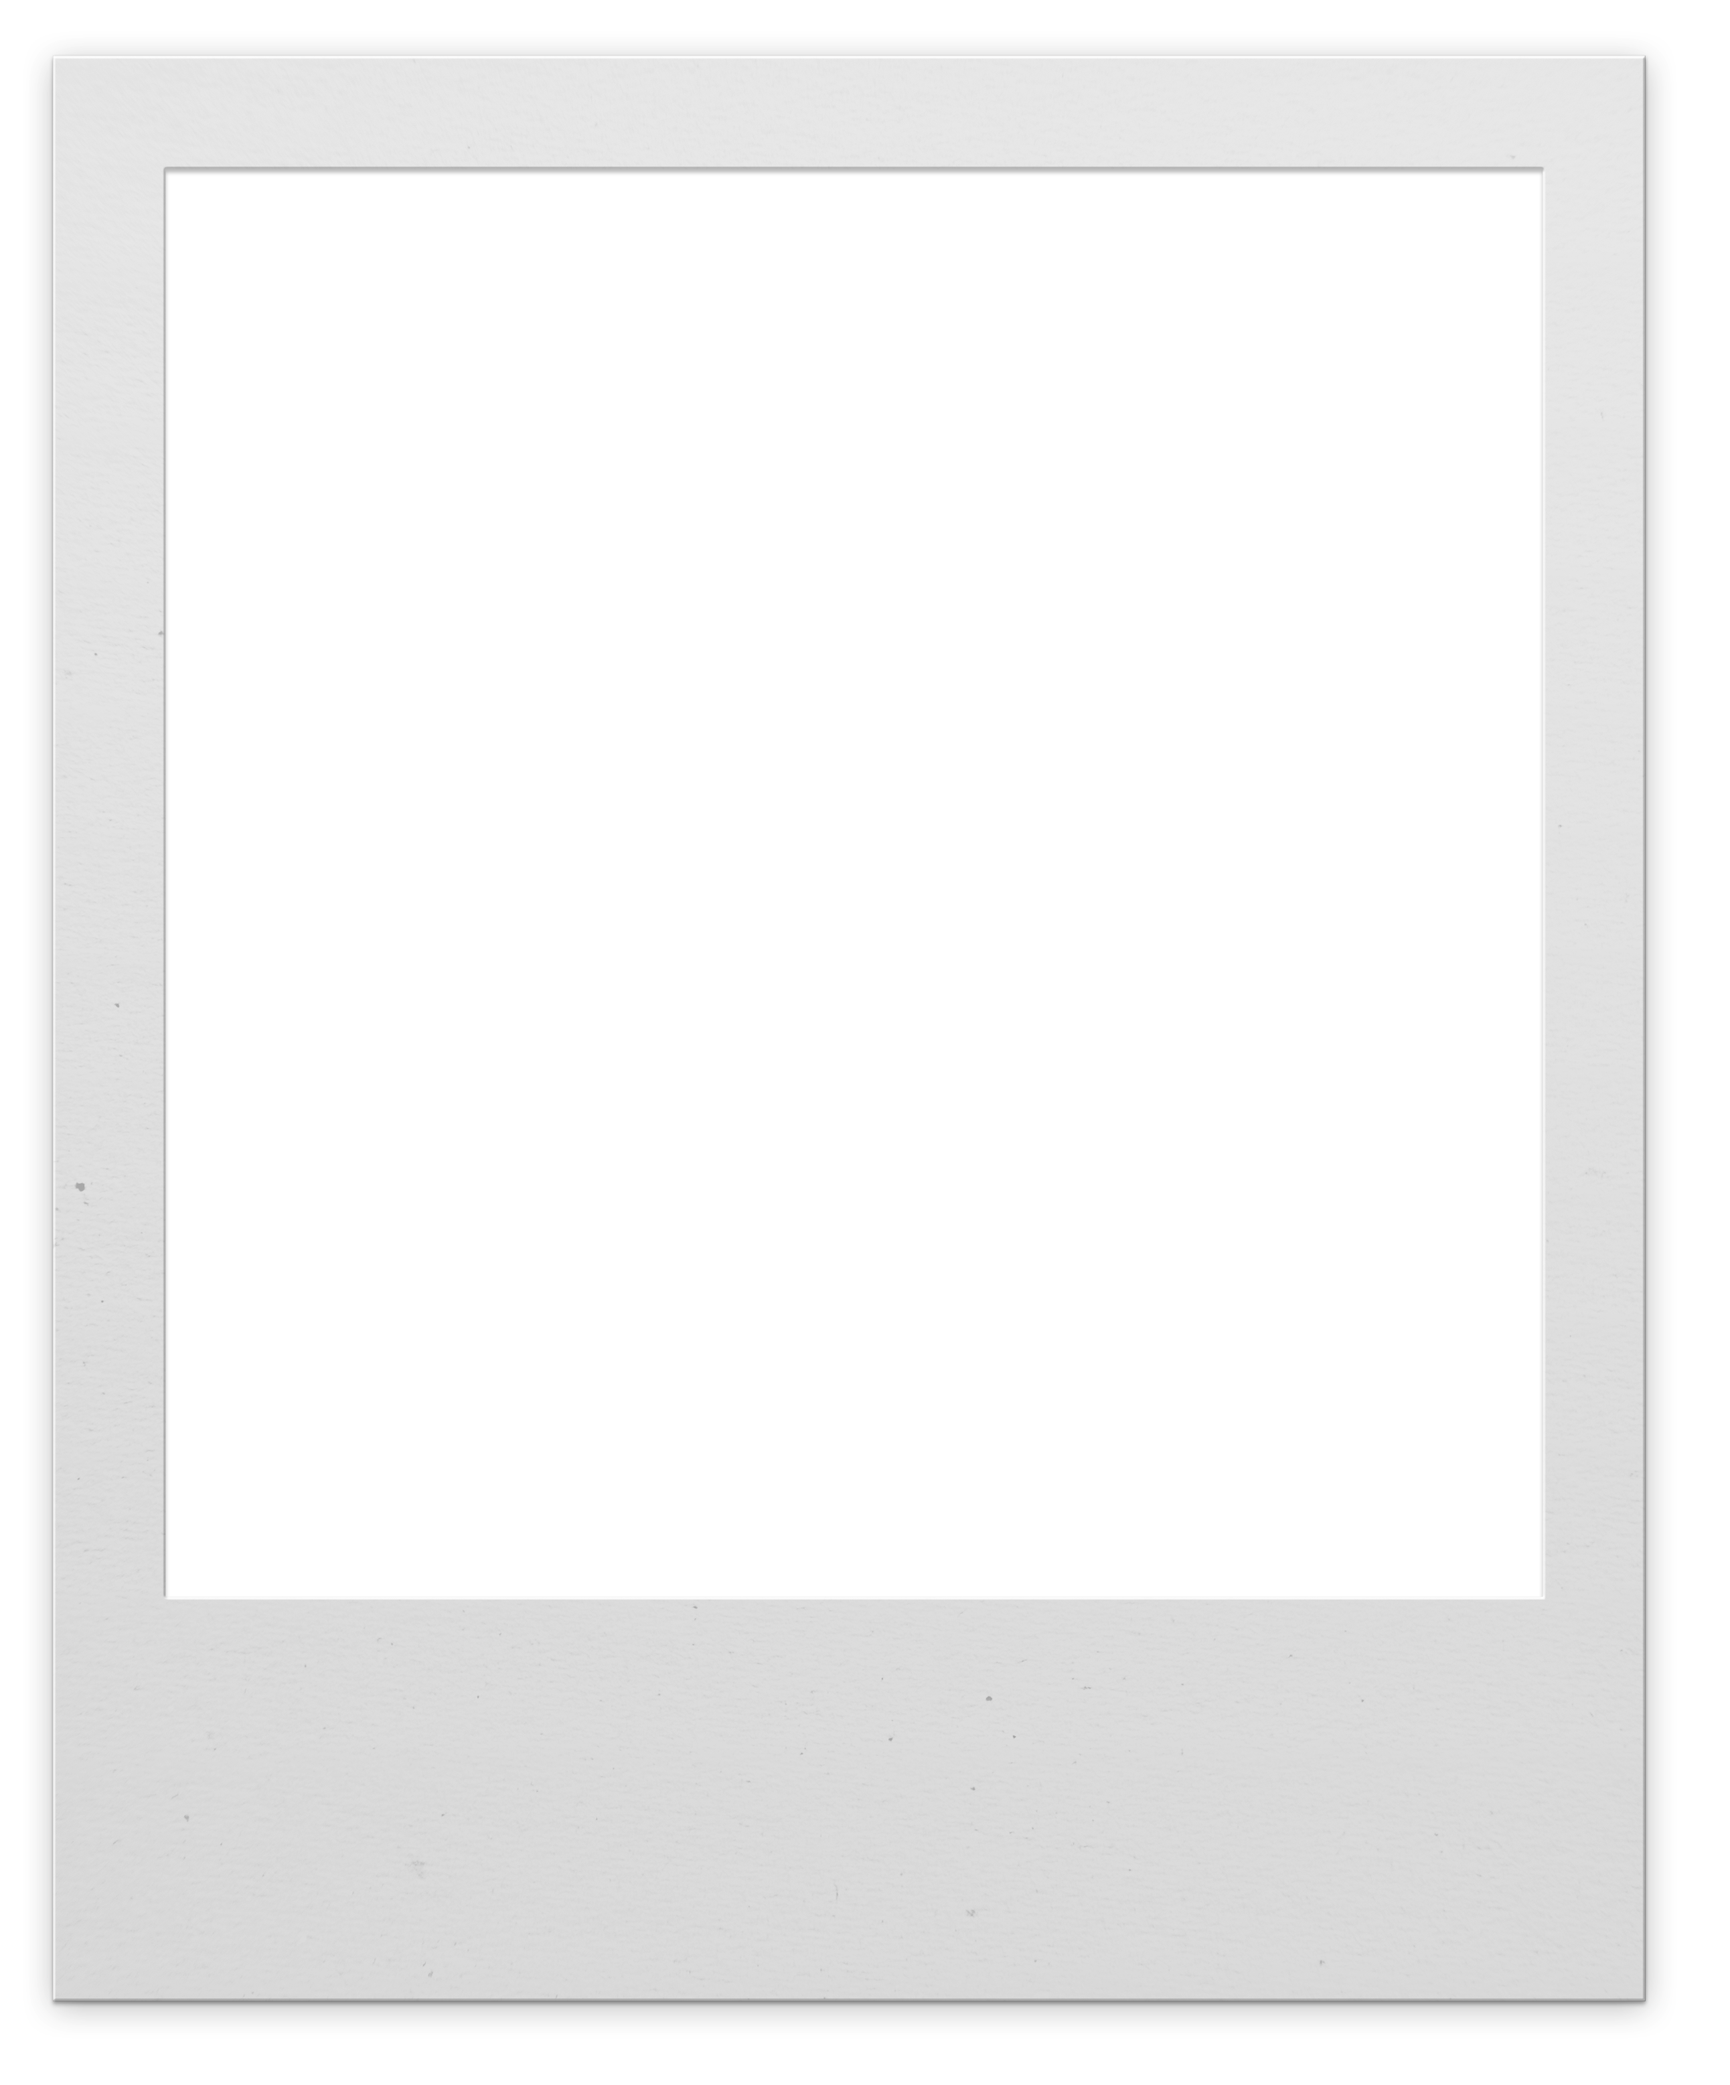
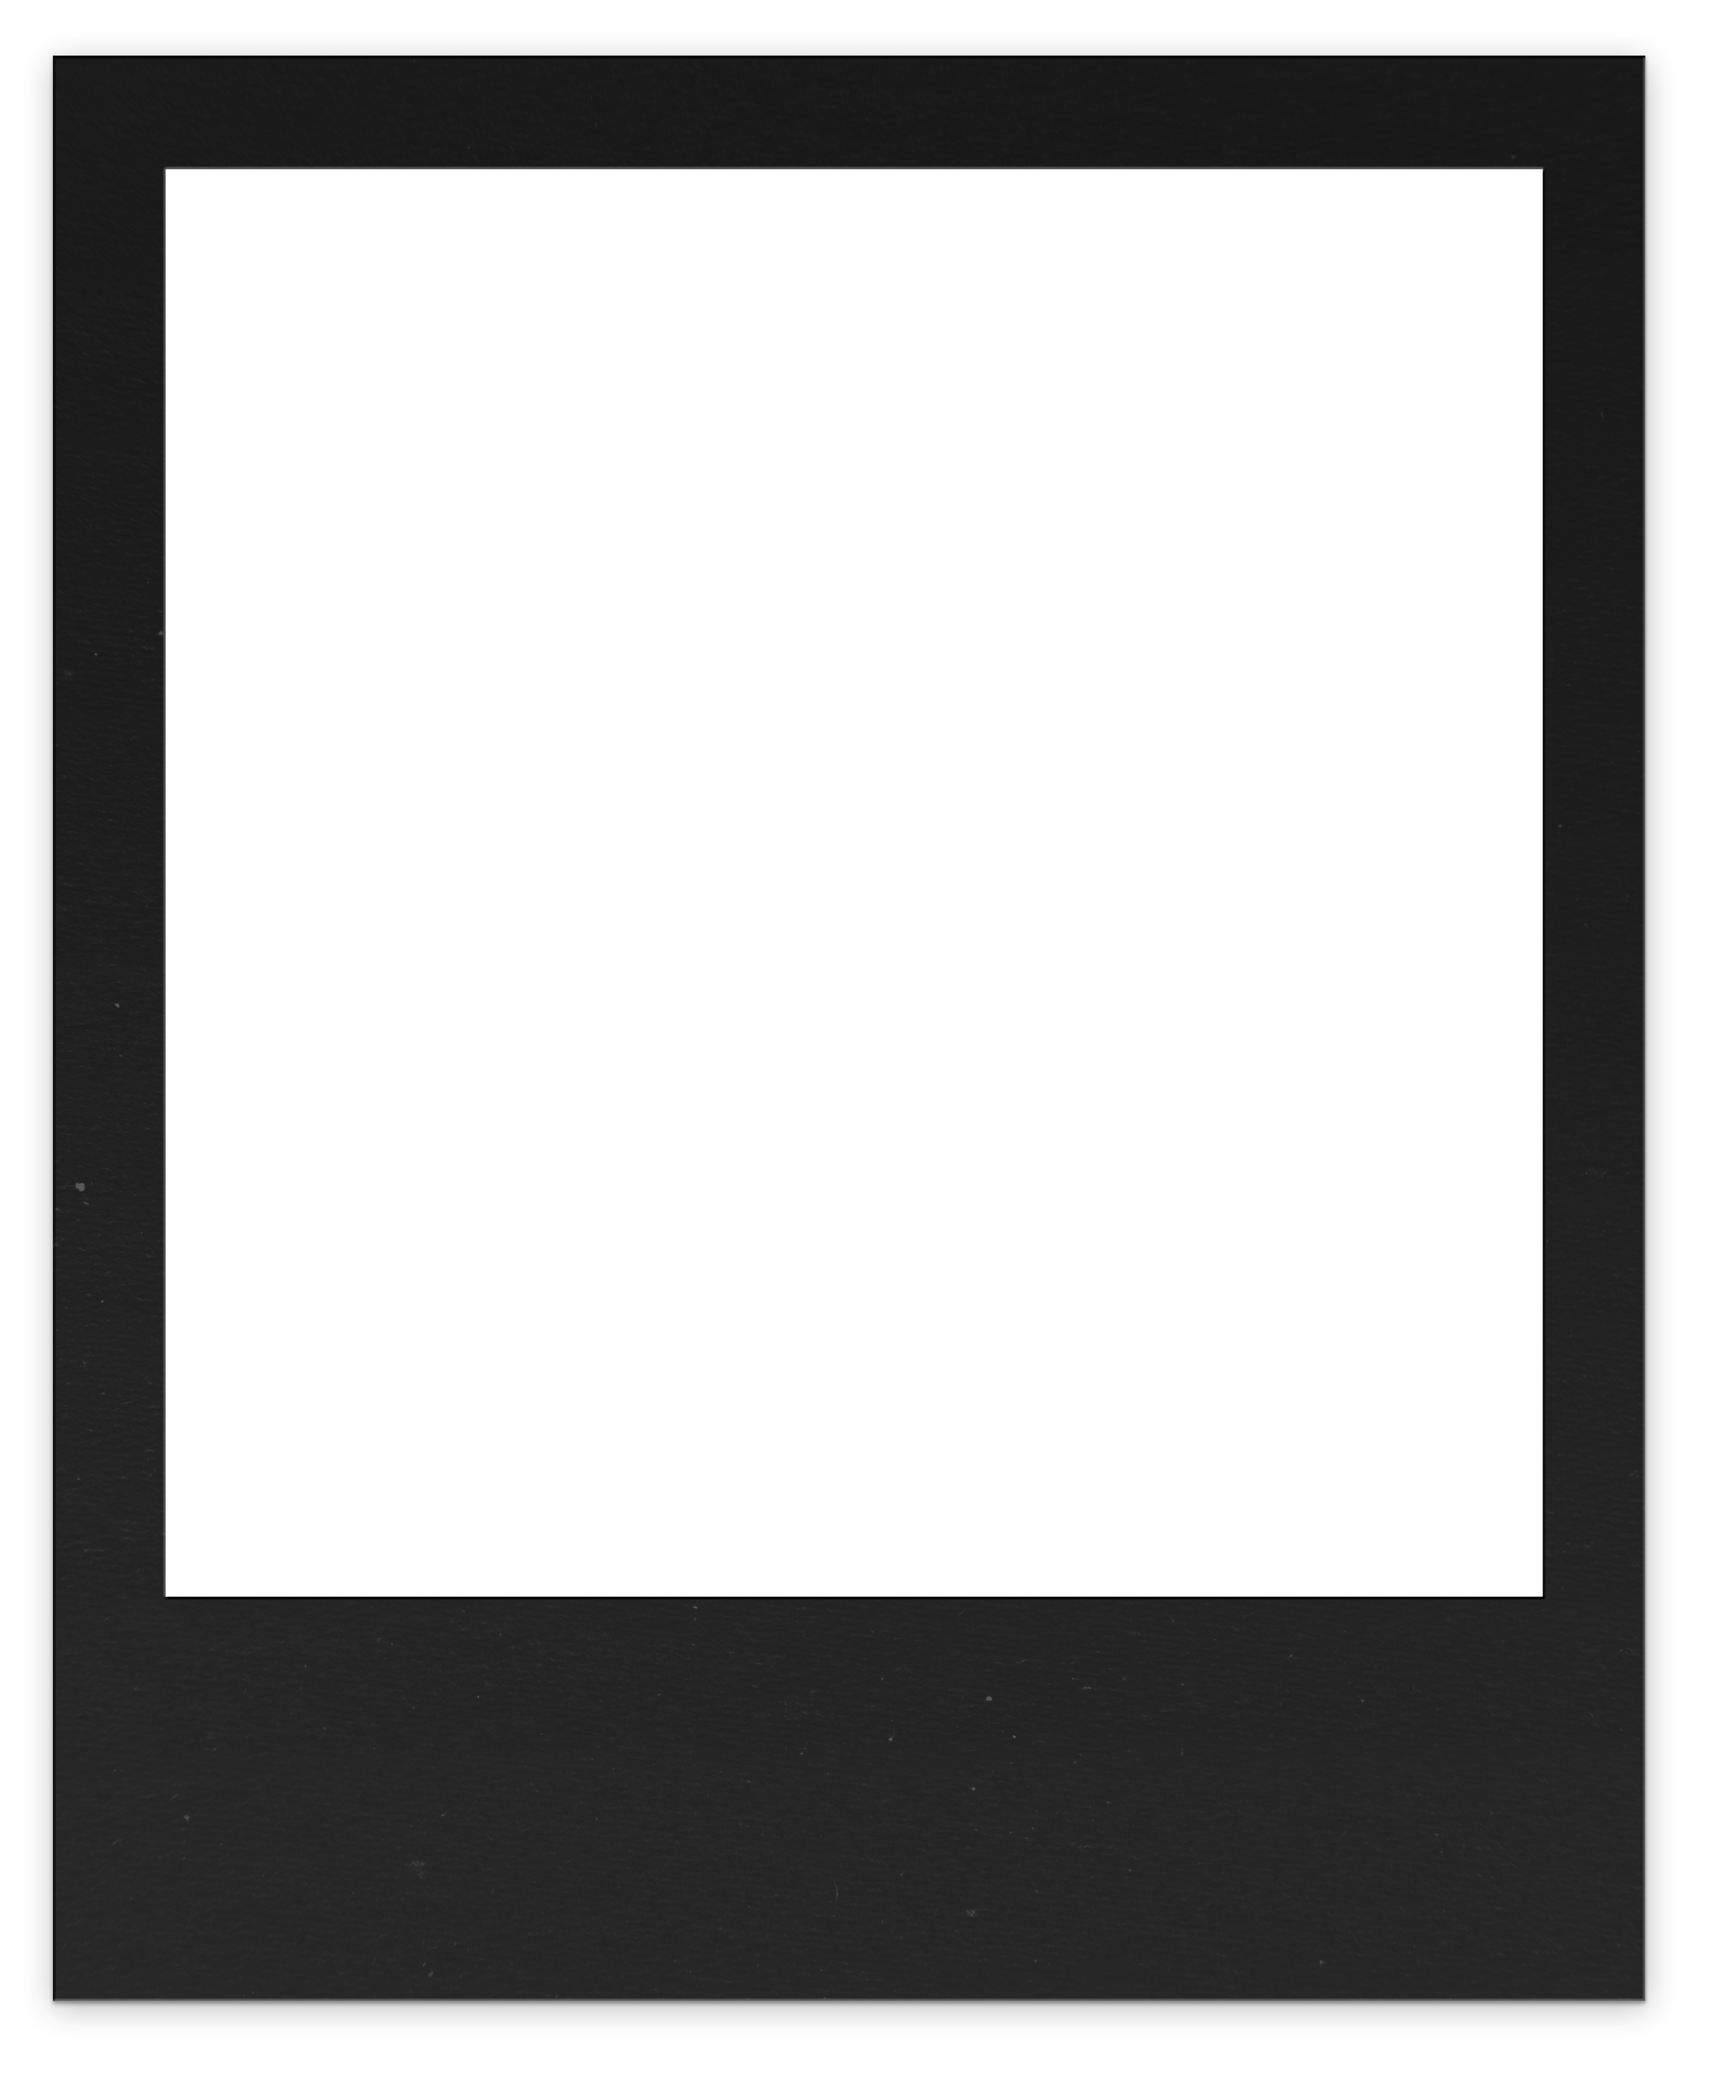
modify iframe page style

diff --git a/styles/index/_PAGE_STYLE.css b/styles/index/_PAGE_STYLE.css
@@ -14,7 +14,7 @@ a:visited {color: #83AABB; text-decoration: none;}
 a:active  {color: #AADAEF; text-decoration: underline;}
 	  
 h1 {
-	color: #AADAEF;
+	color: #CECECE;
 }
 	  
 .frame-image {
@@ -71,10 +71,10 @@ h1 {
   left: 110px;
 	    
   font-size: 10px;
-  color: black;
+  color: white;
   transform: rotate(12deg);
 }
 	  
 .attrib a:link,
-.attrib a:visited {color: blue !important}
+.attrib a:visited {color: darkseagreen !important}
 .attrib a:active {color: aqua !important}

diff --git a/styles/index/main.css b/styles/index/main.css
@@ -14,8 +14,8 @@ body {
 }
 
 .home {
-  background-color: #273742;
-/*background-color: #151515;*/
+/*background-color: #273742;*/
+  background-color: #151515;
   position: absolute;
   top: 50%;
   left: 50%;
